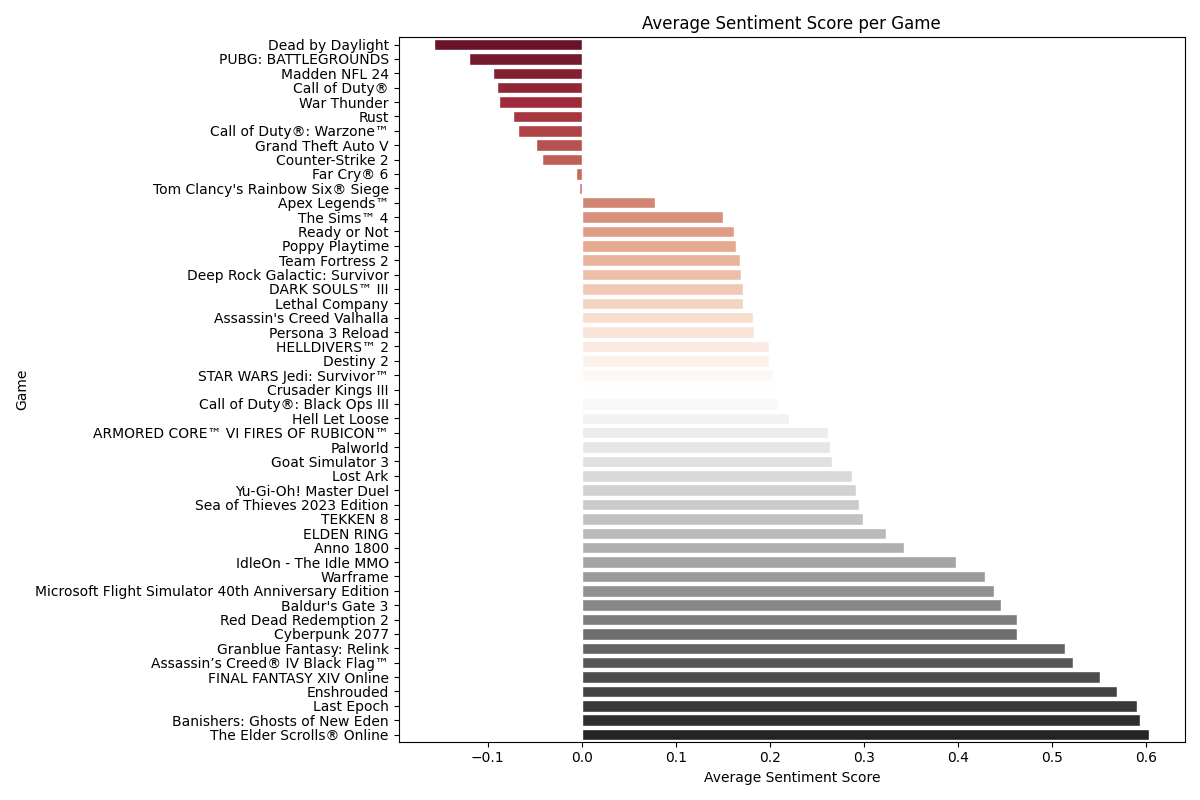
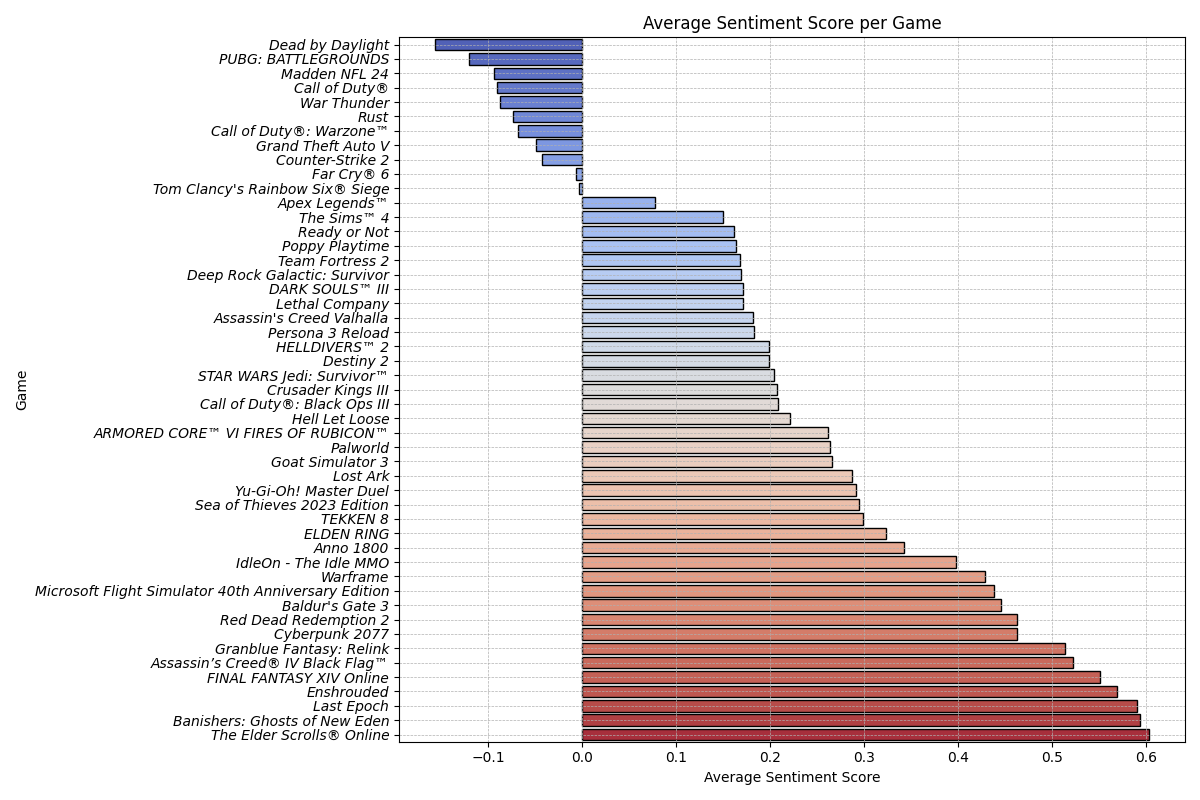
Change visuals color

Changed region(s): [[0.0308, 0.0312, 0.9558, 0.9375], [0.5242, 0.0, 0.7708, 0.0625], [0.4008, 0.9375, 0.4317, 0.9688]]

diff --git a/final_analysis/test_visuals.py b/final_analysis/test_visuals.py
@@ -1,0 +1,33 @@
+import matplotlib.pyplot as plt
+import seaborn as sns
+import pandas as pd
+
+def plot_avg_sentiment_per_game(df):
+    """
+    Calculates and plots the average sentiment score per game with specified visual enhancements.
+    """
+    avg_sentiment_per_game = df.groupby('game_name')['sentiment_score'].mean().sort_values()
+    plt.figure(figsize=(12, 8))
+    barplot = sns.barplot(x=avg_sentiment_per_game.values, y=avg_sentiment_per_game.index, palette="coolwarm", edgecolor="black")
+    
+    # Add grid
+    plt.grid(True, which='both', linestyle='--', linewidth=0.5)
+    
+    # Italicize the game titles
+    plt.yticks(fontstyle='italic')
+    
+    plt.title('Average Sentiment Score per Game')
+    plt.xlabel('Average Sentiment Score')
+    plt.ylabel('Game')
+    plt.tight_layout()
+    plt.show()
+
+def main():
+    # Load your dataset
+    df = pd.read_csv('data/KMEANS_cluster_TESTres.csv')
+
+    # Plot average sentiment score per game
+    plot_avg_sentiment_per_game(df)
+
+if __name__ == "__main__":
+    main()
